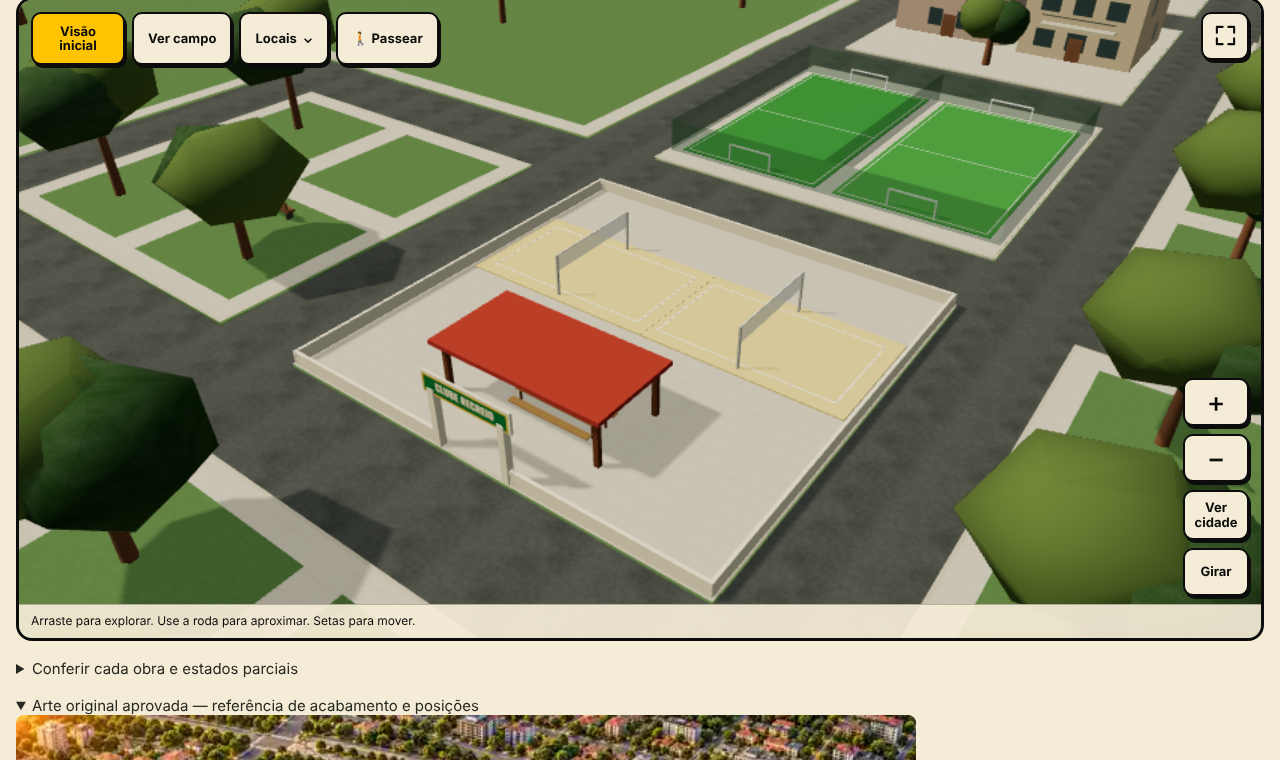
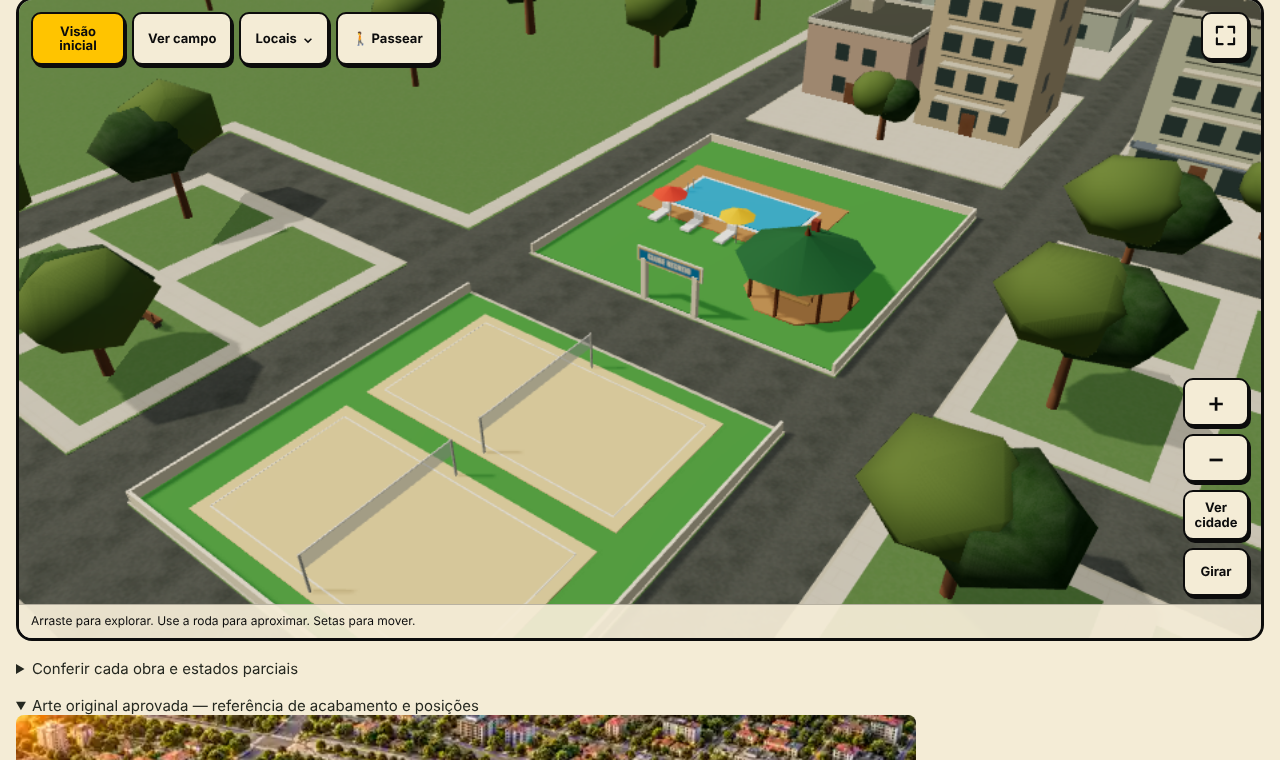
Mapa: clube de lazer refeito como o Diego pediu — piscina com deck e guarda-sóis, churrasqueira num gazebo e 2 quadras de futevôlei lado a lado (saem os campos society)
Claude-Session: https://claude.ai/code/session_018Ap1zPCMVL9XeZJN3u93ZA

diff --git a/src/escalacao/presidencia-clube-lazer.ts b/src/escalacao/presidencia-clube-lazer.ts
@@ -1,70 +1,87 @@
-// 🏐 CLUBE DE LAZER DO BAIRRO (17/11, Diego: "um clubezinho com dois campinhos de futevôlei e churrasqueira… um clube de dia…
-// não é clube de futebol… pode ser distante do estádio… com dois campos de futebol, um do lado do outro"). Ocupa DOIS quarteirões
-// numa ponta do bairro: um com as 2 quadras de areia + a churrasqueira coberta, o outro com os 2 campos society.
-// Só cenário (não cobra, não paga, não grava nada no save). Caixas mescladas por material e uma placa em canvas — zero download.
+// 🏐🏊 CLUBE DE LAZER DO BAIRRO (17/11). 1ª versão (futevôlei + churrasqueira coberta + 2 campos society) o Diego não gostou:
+// *"quero clube com piscina… churrasqueira em gazebo… e dois campos de futevôlei lado a lado"*. Então, em DOIS quarteirões
+// vizinhos numa ponta do bairro (longe do estádio): um com as 2 quadras de areia lado a lado; o outro com a PISCINA (deck,
+// espreguiçadeiras e guarda-sóis) e o GAZEBO de telhado de 8 águas com a churrasqueira, mesa e bancos dentro. Muro baixo e
+// portão com a placa do clube. Só cenário (não cobra, não paga, não grava nada no save) — caixas mescladas, placa em canvas.
 import * as THREE from 'three'
 import {mergeGeometries} from 'three/addons/utils/BufferGeometryUtils.js'
 
 export type ClubeLazer={id:'clube-lazer';name:string;root:THREE.Group;centro:{x:number;z:number};solidos:{id:string;minX:number;maxX:number;minZ:number;maxZ:number;top:number}[];dispose:()=>void}
 
-/** `areia` = o quarteirão das quadras de futevôlei + churrasqueira · `society` = o quarteirão dos 2 campos */
-export function criarClubeLazer(parent:THREE.Object3D,spec:{areia:{x:number;z:number};society:{x:number;z:number};name?:string}):ClubeLazer{
+/** `quadras` = o quarteirão das 2 quadras de futevôlei · `lazer` = o quarteirão da piscina + gazebo (com o portão) */
+export function criarClubeLazer(parent:THREE.Object3D,spec:{quadras:{x:number;z:number};lazer:{x:number;z:number};name?:string}):ClubeLazer{
  const name=spec.name??'Clube Recreio'
  const root=new THREE.Group();root.name='clube-lazer';parent.add(root)
  const gs=new Set<THREE.BufferGeometry>(),ms=new Set<THREE.Material>(),ts=new Set<THREE.Texture>()
  const mats=new Map<string,THREE.MeshStandardMaterial>()
  const mat=(color:string,extra:Partial<THREE.MeshStandardMaterialParameters>={})=>{const k=color+JSON.stringify(extra);let m=mats.get(k);if(!m){m=new THREE.MeshStandardMaterial({color,roughness:.9,...extra});mats.set(k,m);ms.add(m)}return m}
  const sand=mat('#e7cf93'),line=mat('#fbf7ea'),post=mat('#d8d8d0',{metalness:.3,roughness:.5}),net=mat('#f5f5f0',{transparent:true,opacity:.55}),
-  grass=mat('#3f8f3a'),grassB=mat('#4a9b42'),wood=mat('#7a4a26'),roof=mat('#b5452c'),brick=mat('#9c4a32'),coal=mat('#2a2a2a'),table=mat('#c99a5b'),
-  fence=mat('#2f5d3a',{transparent:true,opacity:.32}),wall=mat('#efe6cf'),goal=mat('#ffffff')
- const box=(w:number,h:number,d:number,x:number,y:number,z:number,m:THREE.Material)=>{const g=new THREE.BoxGeometry(w,h,d);gs.add(g);const o=new THREE.Mesh(g,m);o.position.set(x,y,z);o.castShadow=h>.2;o.receiveShadow=true;root.add(o);return o}
+  grass=mat('#4f9a45'),deck=mat('#b98a55'),tile=mat('#f2f4f4'),water=mat('#2fa9d8',{roughness:.15,metalness:.1,emissive:'#0c4f6e',emissiveIntensity:.35}),
+  waterDeep=mat('#1d86b8',{roughness:.15,emissive:'#083e57',emissiveIntensity:.3}),wood=mat('#7a4a26'),roofM=mat('#2f6b3f'),brick=mat('#9c4a32'),
+  coal=mat('#2a2a2a'),table=mat('#c99a5b'),wall=mat('#efe6cf'),lounger=mat('#ffffff'),umbA=mat('#e8503a'),umbB=mat('#ffc400')
+ const add=(g:THREE.BufferGeometry,m:THREE.Material,x:number,y:number,z:number,ry=0)=>{gs.add(g);const o=new THREE.Mesh(g,m);o.position.set(x,y,z);o.rotation.y=ry;o.castShadow=true;o.receiveShadow=true;root.add(o);return o}
+ const box=(w:number,h:number,d:number,x:number,y:number,z:number,m:THREE.Material)=>{const o=add(new THREE.BoxGeometry(w,h,d),m,x,y,z);o.castShadow=h>.2;return o}
  const solidos:ClubeLazer['solidos']=[]
- // ── quarteirão 1: 2 quadras de futevôlei lado a lado + churrasqueira coberta ─────────────────────────────────────────
- {const {x:cx,z:cz}=spec.areia,y=.17
-  for(const dx of [-5.4,5.4]){
-   const x=cx+dx,z=cz-3.2,W=9.6,D=5.2
-   box(W+1.6,.08,D+1.6,x,y+.04,z,sand)
-   // linhas
-   box(W,.02,.08,x,y+.09,z-D/2,line);box(W,.02,.08,x,y+.09,z+D/2,line);box(.08,.02,D,x-W/2,y+.09,z,line);box(.08,.02,D,x+W/2,y+.09,z,line)
-   // rede no meio (atravessa a quadra no sentido do comprimento curto)
-   for(const s of [-1,1])box(.1,2.4,.1,x,y+1.2,z+s*(D/2+.35),post)
-   box(.04,.9,D+.6,x,y+1.95,z,net);box(.06,.06,D+.7,x,y+2.4,z,line)
+ const y=.17
+ // muro baixo em volta dos dois quarteirões (o lado colado entre eles fica aberto — é o mesmo clube)
+ const muro=(cx:number,cz:number,aberto:'n'|'s'|'l'|'o'|null,portao:boolean)=>{
+  if(aberto!=='n')box(23,.7,.18,cx,y+.35,cz-11.4,wall)
+  if(aberto!=='s'){if(portao)for(const s of [-1,1])box(9.6,.7,.18,cx+s*6.7,y+.35,cz+11.4,wall);else box(23,.7,.18,cx,y+.35,cz+11.4,wall)}
+  if(aberto!=='o')box(.18,.7,23,cx-11.4,y+.35,cz,wall)
+  if(aberto!=='l')box(.18,.7,23,cx+11.4,y+.35,cz,wall)
+ }
+ const Q=spec.quadras,L=spec.lazer
+ const lado=(a:{x:number;z:number},b:{x:number;z:number}):'n'|'s'|'l'|'o'=>b.x>a.x?'l':b.x<a.x?'o':b.z>a.z?'s':'n'
+ // ── quarteirão das quadras: 2 quadras de futevôlei LADO A LADO, com grama em volta ──────────────────────────────────
+ box(22.6,.05,22.6,Q.x,y+.025,Q.z,grass)
+ for(const dz of [-5.4,5.4]){
+  const x=Q.x,z=Q.z+dz,W=16,D=8
+  box(W+1.4,.08,D+1.4,x,y+.07,z,sand)
+  box(W,.02,.08,x,y+.12,z-D/2,line);box(W,.02,.08,x,y+.12,z+D/2,line);box(.08,.02,D,x-W/2,y+.12,z,line);box(.08,.02,D,x+W/2,y+.12,z,line)
+  for(const s of [-1,1])box(.1,2.5,.1,x,y+1.25,z+s*(D/2+.4),post)
+  box(.04,.9,D+.8,x,y+2,z,net);box(.06,.06,D+.9,x,y+2.45,z,line)
+ }
+ muro(Q.x,Q.z,lado(Q,L),false)
+ // ── quarteirão do lazer: piscina com deck + gazebo com churrasqueira ─────────────────────────────────────────────────
+ box(22.6,.05,22.6,L.x,y+.025,L.z,grass)
+ {const px=L.x-3,pz=L.z-2.5
+  box(13.4,.12,8.4,px,y+.06,pz,deck)                   // deck de madeira
+  box(10.4,.14,5.4,px,y+.1,pz,tile)                    // borda de azulejo
+  box(9.8,.05,4.8,px,y+.17,pz,water)                   // água
+  box(4,.05,4.8,px+2.9,y+.165,pz,waterDeep)            // a parte funda, um azul mais escuro
+  for(const s of [-1,1])box(.06,.9,.06,px-4.6,y+.55,pz+s*.4,post) // escadinha
+  // espreguiçadeiras + guarda-sóis no deck
+  for(const [i,lx] of [-4.2,-1.4,1.4].entries()){
+   const lz=pz+4.7;box(.75,.18,1.9,px+lx,y+.3,lz,lounger);box(.75,.5,.12,px+lx,y+.55,lz-.9,lounger)
+   if(i!==1){add(new THREE.CylinderGeometry(.04,.04,2.4,6),post,px+lx+.9,y+1.2,lz);add(new THREE.ConeGeometry(1.3,.6,8),i===0?umbA:umbB,px+lx+.9,y+2.5,lz)}
   }
-  // churrasqueira coberta (quiosque): 4 pilares, telhado, a churrasqueira de tijolo com chaminé, mesa comprida e bancos
-  const kz=cz+6.6
-  for(const [px,pz] of [[-4.2,-2],[4.2,-2],[-4.2,2],[4.2,2]])box(.25,2.6,.25,cx+px,y+1.3,kz+pz,wood)
-  box(9.4,.22,5,cx,y+2.7,kz,roof)
-  box(2,1,1,cx-2.9,y+.5,kz-1.4,brick);box(1.8,.08,.8,cx-2.9,y+1.04,kz-1.4,coal);box(.5,1.6,.5,cx-3.6,y+1.8,kz-1.4,brick)
-  box(4.4,.08,1.1,cx+1,y+.82,kz+.4,table);for(const s of [-1,1])box(4.4,.08,.35,cx+1,y+.48,kz+.4+s*.9,table)
-  for(const lx of [-1,3])for(const s of [-1,1])box(.08,.78,.08,cx+lx,y+.39,kz+.4+s*.45,wood)
-  solidos.push({id:'clube-lazer-churrasqueira',minX:cx-3.9,maxX:cx-1.9,minZ:kz-1.9,maxZ:kz-.9,top:2.6})
-  // muro baixo + portão com a placa do clube
-  box(23,.7,.18,cx,y+.35,cz-11.4,wall);for(const s of [-1,1])box(.18,.7,23,cx+s*11.4,y+.35,cz,wall)
-  for(const s of [-1,1])box(9.6,.7,.18,cx+s*6.7,y+.35,cz+11.4,wall)
-  for(const s of [-1,1])box(.35,3,.35,cx+s*1.9,y+1.5,cz+11.4,wall)
-  if(typeof document!=='undefined'){
-   const canvas=document.createElement('canvas');canvas.width=1024;canvas.height=200;const ctx=canvas.getContext('2d')!
-   ctx.fillStyle='#1b7a3d';ctx.fillRect(0,0,1024,200);ctx.strokeStyle='#ffc400';ctx.lineWidth=12;ctx.strokeRect(10,10,1004,180)
-   ctx.fillStyle='#fff6d8';ctx.textAlign='center';ctx.textBaseline='middle';ctx.font='bold 110px Oswald, sans-serif';ctx.fillText(name.toUpperCase(),512,104,980)
-   const texture=new THREE.CanvasTexture(canvas);texture.colorSpace=THREE.SRGBColorSpace;ts.add(texture)
-   const m=new THREE.MeshStandardMaterial({map:texture,roughness:.85});ms.add(m);const g=new THREE.PlaneGeometry(4.6,.9);gs.add(g)
-   const sign=new THREE.Mesh(g,m);sign.position.set(cx,y+3.2,cz+11.52);root.add(sign);box(4.8,1.05,.12,cx,y+3.2,cz+11.42,wall)
-  }}
- // ── quarteirão 2: 2 campos society lado a lado, com alambrado ───────────────────────────────────────────────────────
- {const {x:cx,z:cz}=spec.society,y=.17
-  for(const dx of [-5.6,5.6]){
-   const x=cx+dx,W=10,D=19
-   box(W,.06,D,x,y+.03,cz,dx<0?grass:grassB)
-   box(W-.6,.02,.08,x,y+.07,cz-D/2+.3,line);box(W-.6,.02,.08,x,y+.07,cz+D/2-.3,line);box(W-.6,.02,.08,x,y+.07,cz,line)
-   box(.08,.02,D-.6,x-W/2+.3,y+.07,cz,line);box(.08,.02,D-.6,x+W/2-.3,y+.07,cz,line)
-   for(const s of [-1,1]){const gz=cz+s*(D/2-.3);box(.1,1.2,.1,x-1.5,y+.6,gz,goal);box(.1,1.2,.1,x+1.5,y+.6,gz,goal);box(3.1,.1,.1,x,y+1.2,gz,goal)}
-  }
-  // alambrado verde em volta (postes + faixa baixa; a tela é só sugerida pra não pesar)
-  for(const s of [-1,1]){box(22.6,2.2,.06,cx,y+1.1,cz+s*9.9,fence);box(.06,2.2,19.8,cx+s*11.3,y+1.1,cz,fence)}
-  box(.06,2.2,19.8,cx,y+1.1,cz,fence)}
- // junta as caixas por material (mesmo truque do boteco) — a placa fica separada
+ }
+ {const gx=L.x+6,gz=L.z+5.2,R=3.4
+  // gazebo: piso octogonal, 8 pilares, telhado de 8 águas com a pontinha em cima
+  add(new THREE.CylinderGeometry(R+.3,R+.3,.16,8),deck,gx,y+.08,gz,Math.PI/8)
+  for(let i=0;i<8;i++){const a=i*Math.PI/4;box(.18,2.5,.18,gx+Math.cos(a)*R,y+1.4,gz+Math.sin(a)*R,wood)}
+  add(new THREE.ConeGeometry(R+1,1.8,8),roofM,gx,y+3.55,gz,Math.PI/8)
+  add(new THREE.ConeGeometry(.22,.6,8),wood,gx,y+4.7,gz)
+  // churrasqueira de tijolo com chaminé saindo pelo telhado, mesa e bancos
+  box(1.8,1,.9,gx,y+.5,gz-2.1,brick);box(1.6,.08,.7,gx,y+1.04,gz-2.1,coal);box(.45,3.6,.45,gx-.55,y+2.4,gz-2.3,brick)
+  box(2.6,.08,1,gx,y+.82,gz+.6,table);for(const s of [-1,1])box(2.6,.08,.32,gx,y+.48,gz+.6+s*.85,table)
+  for(const lx of [-1.1,1.1])box(.08,.78,.08,gx+lx,y+.39,gz+.6,wood)
+  solidos.push({id:'clube-lazer-gazebo',minX:gx-1,maxX:gx+1,minZ:gz-2.6,maxZ:gz-1.6,top:3})}
+ muro(L.x,L.z,lado(L,Q),true)
+ // portão com a placa do clube, na frente do quarteirão do lazer
+ for(const s of [-1,1])box(.35,3,.35,L.x+s*1.9,y+1.5,L.z+11.4,wall)
+ box(4.8,1.05,.12,L.x,y+3.2,L.z+11.42,wall)
+ if(typeof document!=='undefined'){
+  const canvas=document.createElement('canvas');canvas.width=1024;canvas.height=200;const ctx=canvas.getContext('2d')!
+  ctx.fillStyle='#1d86b8';ctx.fillRect(0,0,1024,200);ctx.strokeStyle='#ffc400';ctx.lineWidth=12;ctx.strokeRect(10,10,1004,180)
+  ctx.fillStyle='#fff6d8';ctx.textAlign='center';ctx.textBaseline='middle';ctx.font='bold 110px Oswald, sans-serif';ctx.fillText(name.toUpperCase(),512,104,980)
+  const texture=new THREE.CanvasTexture(canvas);texture.colorSpace=THREE.SRGBColorSpace;ts.add(texture)
+  const m=new THREE.MeshStandardMaterial({map:texture,roughness:.85});ms.add(m);const g=new THREE.PlaneGeometry(4.6,.9);gs.add(g)
+  const sign=new THREE.Mesh(g,m);sign.position.set(L.x,y+3.2,L.z+11.52);root.add(sign)
+ }
+ // junta as caixas por material (mesmo truque do boteco) — placa e peças rodadas (cone/cilindro) entram no lote também
  const groups=new Map<THREE.Material,THREE.BufferGeometry[]>()
  for(const child of [...root.children]){if(!(child instanceof THREE.Mesh)||Array.isArray(child.material)||child.material.map)continue;child.updateMatrix();const list=groups.get(child.material)??[];list.push(child.geometry.clone().applyMatrix4(child.matrix));groups.set(child.material,list);child.removeFromParent()}
- for(const [m,parts] of groups){const g=mergeGeometries(parts,false);parts.forEach(p=>p.dispose());if(!g)throw Error('Invalid clube-lazer geometry batch');gs.add(g);const o=new THREE.Mesh(g,m);o.castShadow=m!==net&&m!==line&&m!==fence;o.receiveShadow=true;root.add(o)}
- return{id:'clube-lazer',name,root,centro:{...spec.areia},solidos,dispose(){root.removeFromParent();gs.forEach(g=>g.dispose());ms.forEach(m=>m.dispose());ts.forEach(t=>t.dispose())}}
+ for(const [m,parts] of groups){const g=mergeGeometries(parts.map(p=>p.index?p.toNonIndexed():p),false);parts.forEach(p=>p.dispose());if(!g)throw Error('Invalid clube-lazer geometry batch');gs.add(g);const o=new THREE.Mesh(g,m);o.castShadow=m!==net&&m!==line&&m!==water&&m!==waterDeep;o.receiveShadow=true;root.add(o)}
+ return{id:'clube-lazer',name,root,centro:{x:(Q.x+L.x)/2,z:(Q.z+L.z)/2},solidos,dispose(){root.removeFromParent();gs.forEach(g=>g.dispose());ms.forEach(m=>m.dispose());ts.forEach(t=>t.dispose())}}
 }

diff --git a/src/escalacao/presidencia-complexo-entorno.ts b/src/escalacao/presidencia-complexo-entorno.ts
@@ -1029,8 +1029,8 @@ export function criarEntornoComplexo(scene:THREE.Scene, state:EstadoComplexo,onR
   // 🪩 17/11 (Diego: "a balada não precisa ficar próximo do estádio"): o quarteirão MAIS LONGE do estádio, numa ponta do bairro
   const quadraBalada=occupied.filter(p=>!pubBlocks.includes(p)&&!(p.x===CASA_LUCA.x&&p.z===CASA_LUCA.z)&&!(p.x===QUADRA_CASA_LUCA_SUL.x&&p.z===QUADRA_CASA_LUCA_SUL.z)).sort((a,b)=>Math.hypot(b.x,b.z)-Math.hypot(a.x,a.z))[0]
   let balada:BaladaBairro|null=null
-  // 🏐 17/11 (Diego: "um clubezinho com dois campinhos de futevôlei e churrasqueira… e dois campos de futebol… distante do estádio"):
-  // dois quarteirões VIZINHOS numa ponta do bairro (os mais longe do estádio depois da balada) — um de areia, o outro society
+  // 🏐🏊 17/11 (Diego: "clube com piscina… churrasqueira em gazebo… e dois campos de futevôlei lado a lado", longe do estádio):
+  // dois quarteirões VIZINHOS numa ponta do bairro (os mais longe do estádio depois da balada) — um das quadras, o outro da piscina
   const livres=occupied.filter(p=>p!==quadraBalada&&!pubBlocks.includes(p)&&!(p.x===CASA_LUCA.x&&p.z===CASA_LUCA.z)&&!(p.x===QUADRA_CASA_LUCA_SUL.x&&p.z===QUADRA_CASA_LUCA_SUL.z)).sort((a,b)=>Math.hypot(b.x,b.z)-Math.hypot(a.x,a.z))
   let quadraAreia:PontoComplexo|undefined,quadraSociety:PontoComplexo|undefined
   for(const a of livres){const b=livres.find(q=>q!==a&&Math.abs(q.x-a.x)+Math.abs(q.z-a.z)===29);if(b){quadraAreia=a;quadraSociety=b;break}}
@@ -1046,8 +1046,8 @@ export function criarEntornoComplexo(scene:THREE.Scene, state:EstadoComplexo,onR
     // x = boteco − 5,3) e a gente aparecia dentro do tronco. Vai pro jardim da casa vizinha, a 7 m da roda.
     plant({x:pubBlocks.includes(p)?p.x-7:p===quadraBalada?p.x+8:p.x,z:p.z+8.6},4.6,false,true,.08) // 🪩 a árvore não tampa a fachada da balada
   }
-  const clubeLazer=quadraAreia&&quadraSociety?criarClubeLazer(root,{areia:quadraAreia,society:quadraSociety}):null
-  if(quadraAreia&&quadraSociety)for(const q of [quadraAreia,quadraSociety])solids.push({id:'clube-lazer-'+(q===quadraAreia?'areia':'society'),minX:q.x-11.5,maxX:q.x+11.5,minZ:q.z-11.5,maxZ:q.z+11.5,base:0,top:2.2,footprint:[{x:q.x-11.5,z:q.z-11.5},{x:q.x+11.5,z:q.z-11.5},{x:q.x+11.5,z:q.z+11.5},{x:q.x-11.5,z:q.z+11.5}]})
+  const clubeLazer=quadraAreia&&quadraSociety?criarClubeLazer(root,{quadras:quadraAreia,lazer:quadraSociety}):null
+  if(quadraAreia&&quadraSociety)for(const q of [quadraAreia,quadraSociety])solids.push({id:'clube-lazer-'+(q===quadraAreia?'quadras':'piscina'),minX:q.x-11.5,maxX:q.x+11.5,minZ:q.z-11.5,maxZ:q.z+11.5,base:0,top:2.2,footprint:[{x:q.x-11.5,z:q.z-11.5},{x:q.x+11.5,z:q.z-11.5},{x:q.x+11.5,z:q.z+11.5},{x:q.x-11.5,z:q.z+11.5}]})
   const ruasCortadas=new Set(quadraCasaLuca&&quadraCasaLucaSul?RUAS_CORTADAS_CASA_LUCA:[])
   const cityRoads=new Set<string>(),ruasBairro:[PontoComplexo,PontoComplexo][]=[] // 🍅 04/11: os trechos de rua do bairro (a feira livre escolhe um)
   for(const p of occupied)for(const [dx,dz] of [[29,0],[-29,0],[0,29],[0,-29]]){

diff --git a/src/escalacao/presidencia-complexo-3d.tsx b/src/escalacao/presidencia-complexo-3d.tsx
@@ -788,7 +788,7 @@ export default function PresidenciaComplexo3D({museumStage,cidadeViva,stadium,ci
     controls.target.set(0,1.1,37.2);camera.position.set(14,6,23)
    }
    else if(next==='clube-lazer'){
-    const c=surround.clubeLazer;if(!c){view('original');return}const a=c.centro,k=camera.aspect<.85?1.5:1;controls.target.set(a.x,1,a.z);camera.position.set(a.x+22*k,26*k,a.z+30*k)
+    const c=surround.clubeLazer;if(!c){view('original');return}const a=c.centro,k=camera.aspect<.85?1.5:1;controls.target.set(a.x,1,a.z);camera.position.set(a.x+27*k,33*k,a.z+37*k)
    }
    else if(next==='balada'){
     const b=surround.balada;if(!b){view('original');return}const p=b.root.position,k=camera.aspect<.85?1.4:1;controls.target.set(p.x,p.y+2.6,p.z+4);camera.position.set(p.x-9*k,p.y+6*k,p.z+19*k)
@@ -1092,7 +1092,7 @@ export default function PresidenciaComplexo3D({museumStage,cidadeViva,stadium,ci
     <button type="button" onClick={()=>go('boteco-oswaldo')}>Boteco do Oswaldo</button>
     <button type="button" onClick={()=>go('bar-esquina')}>Bar da Esquina</button>
     <button type="button" onClick={()=>go('balada')}>{t('Balada','Nightclub')}</button>
-    <button type="button" onClick={()=>go('clube-lazer')}>{t('Clube de lazer (futevôlei e society)','Leisure club (footvolley and 5-a-side)')}</button>
+    <button type="button" onClick={()=>go('clube-lazer')}>{t('Clube (piscina e futevôlei)','Club (pool and footvolley)')}</button>
     {lugarDeHorario('feira',t('Feira livre','Street market'))}<button type="button" onClick={()=>go('banca')}>{t('Banca de jornal','Newsstand')}</button><button type="button" onClick={()=>go('campinho')}>{t('Campinho de terra','Dirt pitch')}</button>
     {([['pipas',t('Pipas na praça','Kites in the square'),culturaBairro.pipas,t('À tarde','Afternoons')],['pagode',t('Pagode no boteco','Music at the pub'),culturaBairro.pagode,t('Sábado e domingo à noite','Saturday and Sunday nights')],['festa-junina',t('Festa junina','June festival'),culturaBairro.junina,t('Em junho, à tarde e à noite','June afternoons and nights')]] as [VistaComplexo,string,boolean,string][]).map(([id,label,open,when])=><button key={id} type="button" disabled={!open} className={!open?'pc3-place-off':undefined} onClick={()=>go(id)}><span>{label}</span>{!open&&<small>{when}</small>}</button>)}
     {lugarDeHorario('padaria',t('Padaria','Bakery'))}{lugarDeHorario('praca-bairro',t('Praça (dominó e carrinhos)','Square (dominoes and carts)'))}{lugarDeHorario('espetinho',t('Espetinho e podrão','Skewers and burger trailer'))}

diff --git a/docs/pendencias.md b/docs/pendencias.md
@@ -13780,7 +13780,8 @@ precisa TER a balada); vários outros. **Mais NPCs no entorno do estádio em dia
   cordão vermelho, globo espelhado, luz roxa à noite; em Locais → Bairro. Foto: `scripts/mockups/mapa-balada-noite.png`.
   🏐 17/11 (Diego: *"um clubezinho com dois campinhos de futevôlei e churrasqueira… e dois campos de futebol… distante do
   estádio"*): CLUBE DE LAZER no mapa (`presidencia-clube-lazer.ts`, "Clube Recreio") em 2 quarteirões vizinhos numa ponta do bairro:
-  2 quadras de areia com rede + churrasqueira coberta (mesa e bancos) + muro e portão com placa; do lado, 2 campos society com
-  alambrado. Em Locais → Bairro. Foto: `scripts/mockups/mapa-clube-lazer.png`. Ainda sem gente jogando (entra junto da ideia 4).
+  🔁 2ª versão (a 1ª, com society, ele não gostou: *"quero clube com piscina… churrasqueira em gazebo… e dois campos de
+  futevôlei lado a lado"*): um quarteirão com as 2 quadras de futevôlei lado a lado; o vizinho com PISCINA (deck, espreguiçadeiras,
+  guarda-sóis) e GAZEBO de 8 águas com a churrasqueira, mesa e bancos; muro baixo e portão com placa. Em Locais → Bairro. Foto: `scripts/mockups/mapa-clube-lazer.png`. Ainda sem gente jogando (entra junto da ideia 4).
   ⏭ Faltam: (3) ônibus em festa em jogo grande e (4) mais gente em volta do estádio no dia de jogo — mockup antes.
 só em jogo MUITO importante. Ele disse ter mandado 3 artes de referência (prints do Brasileirinho) — não estão no repo.
